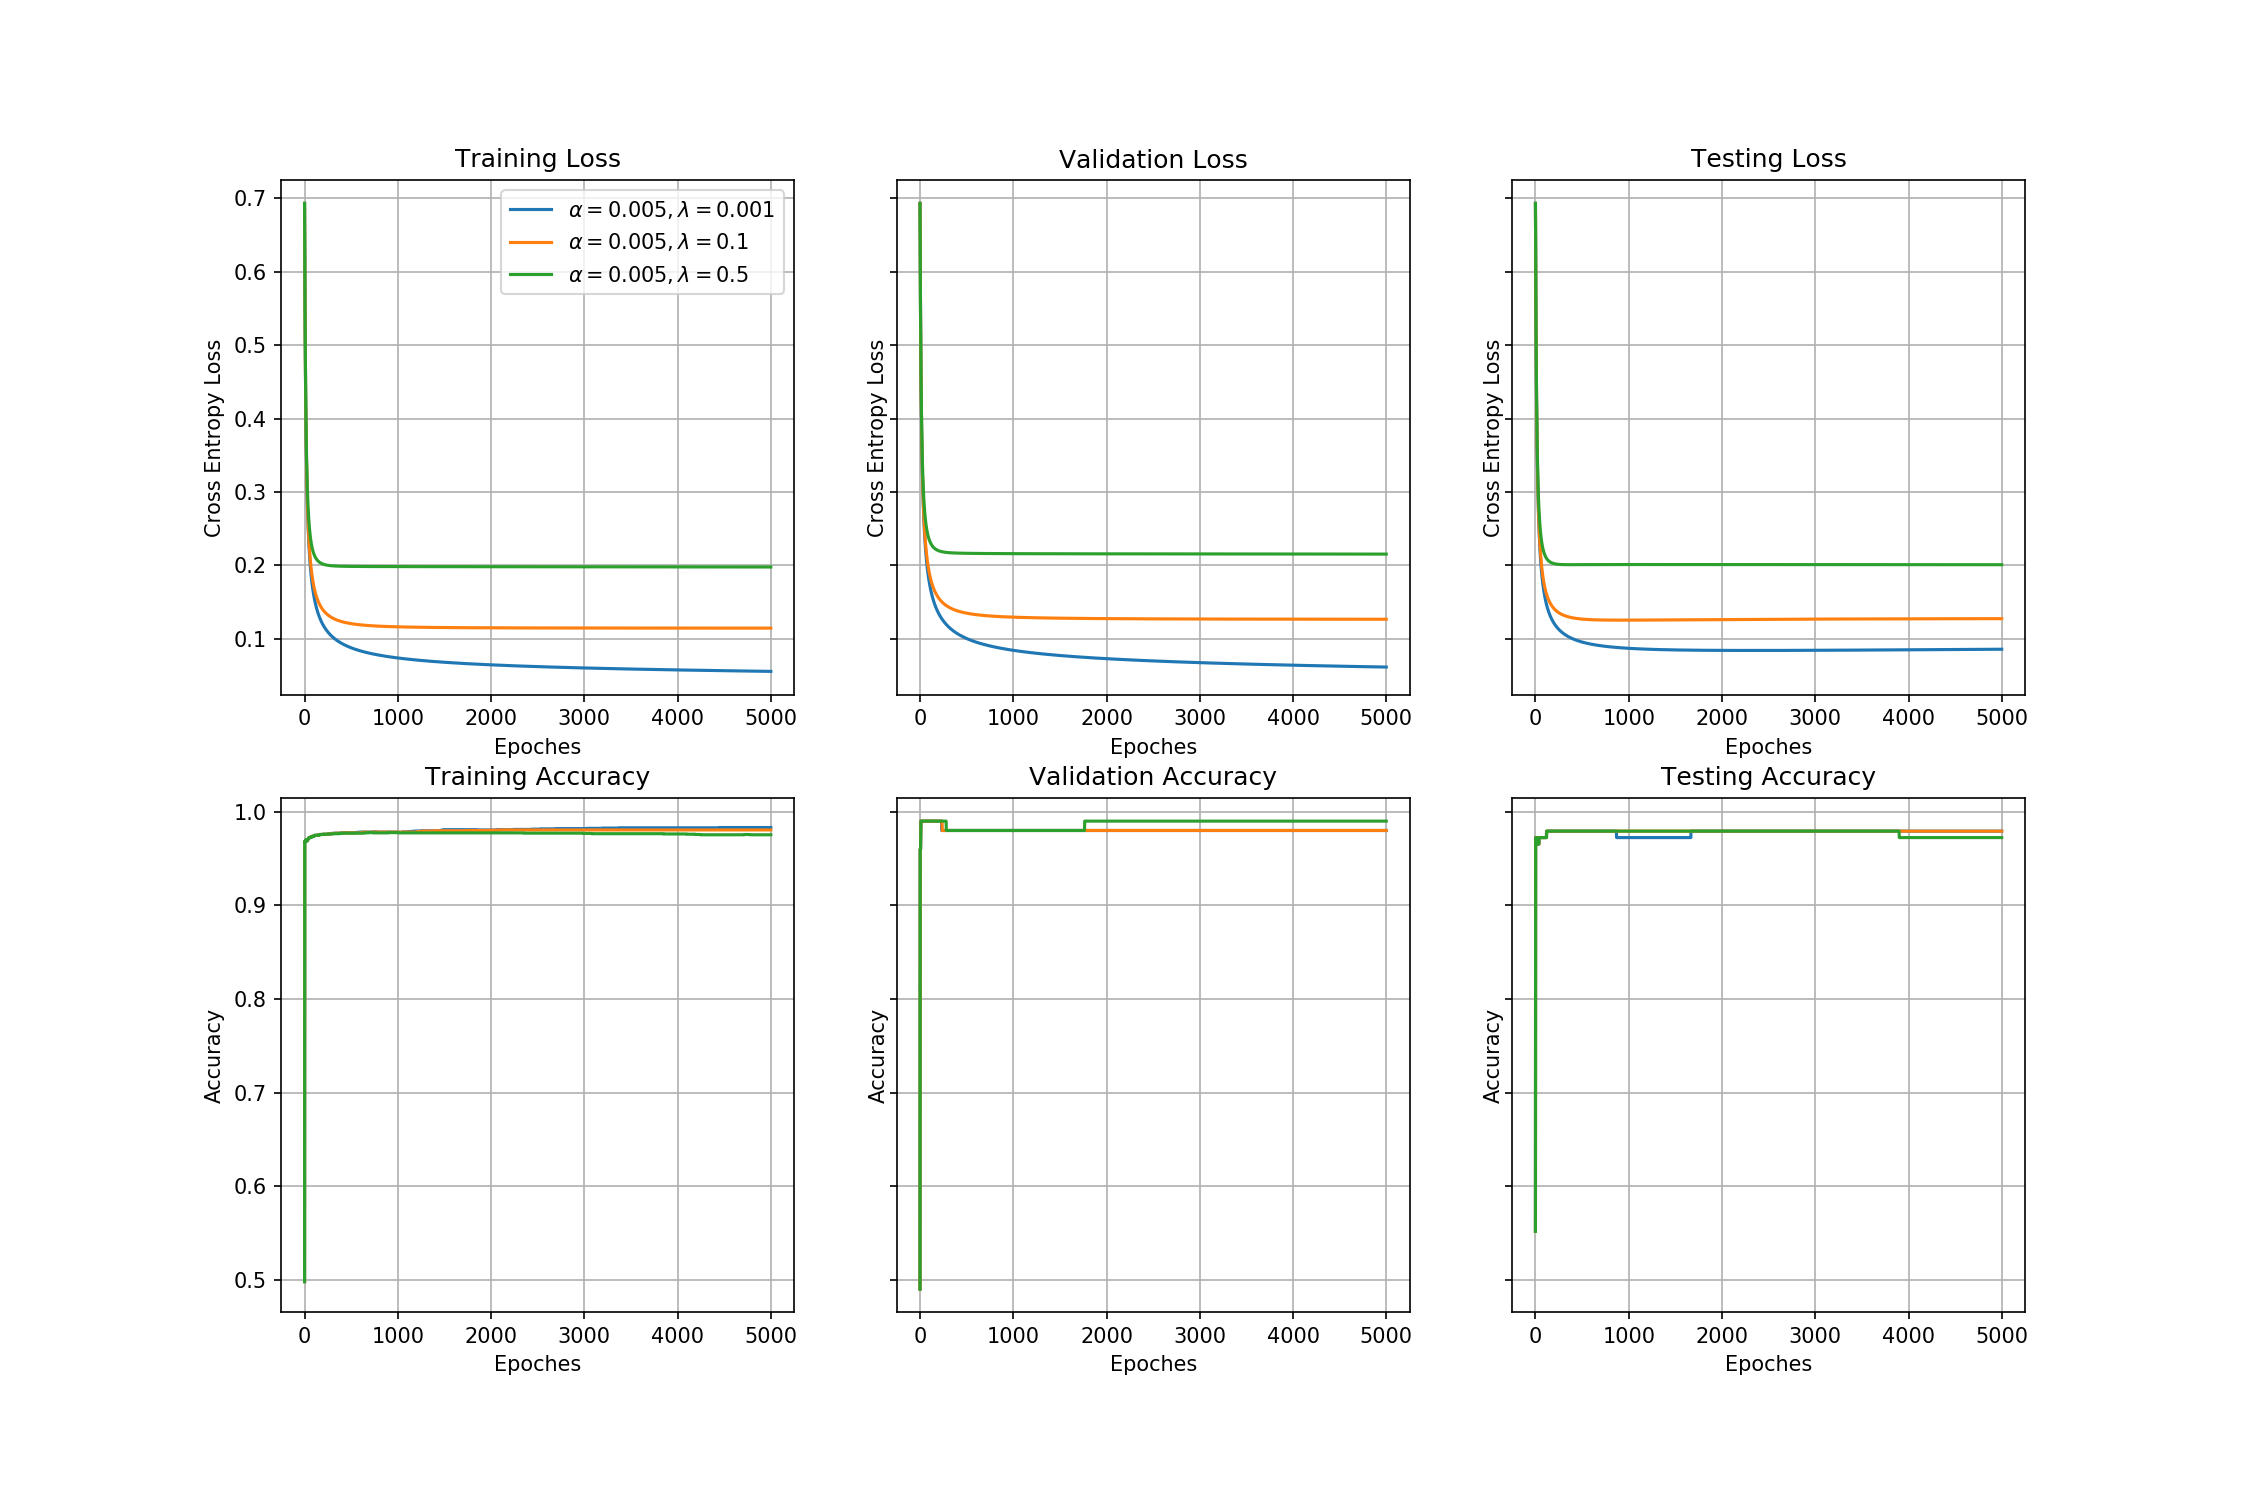
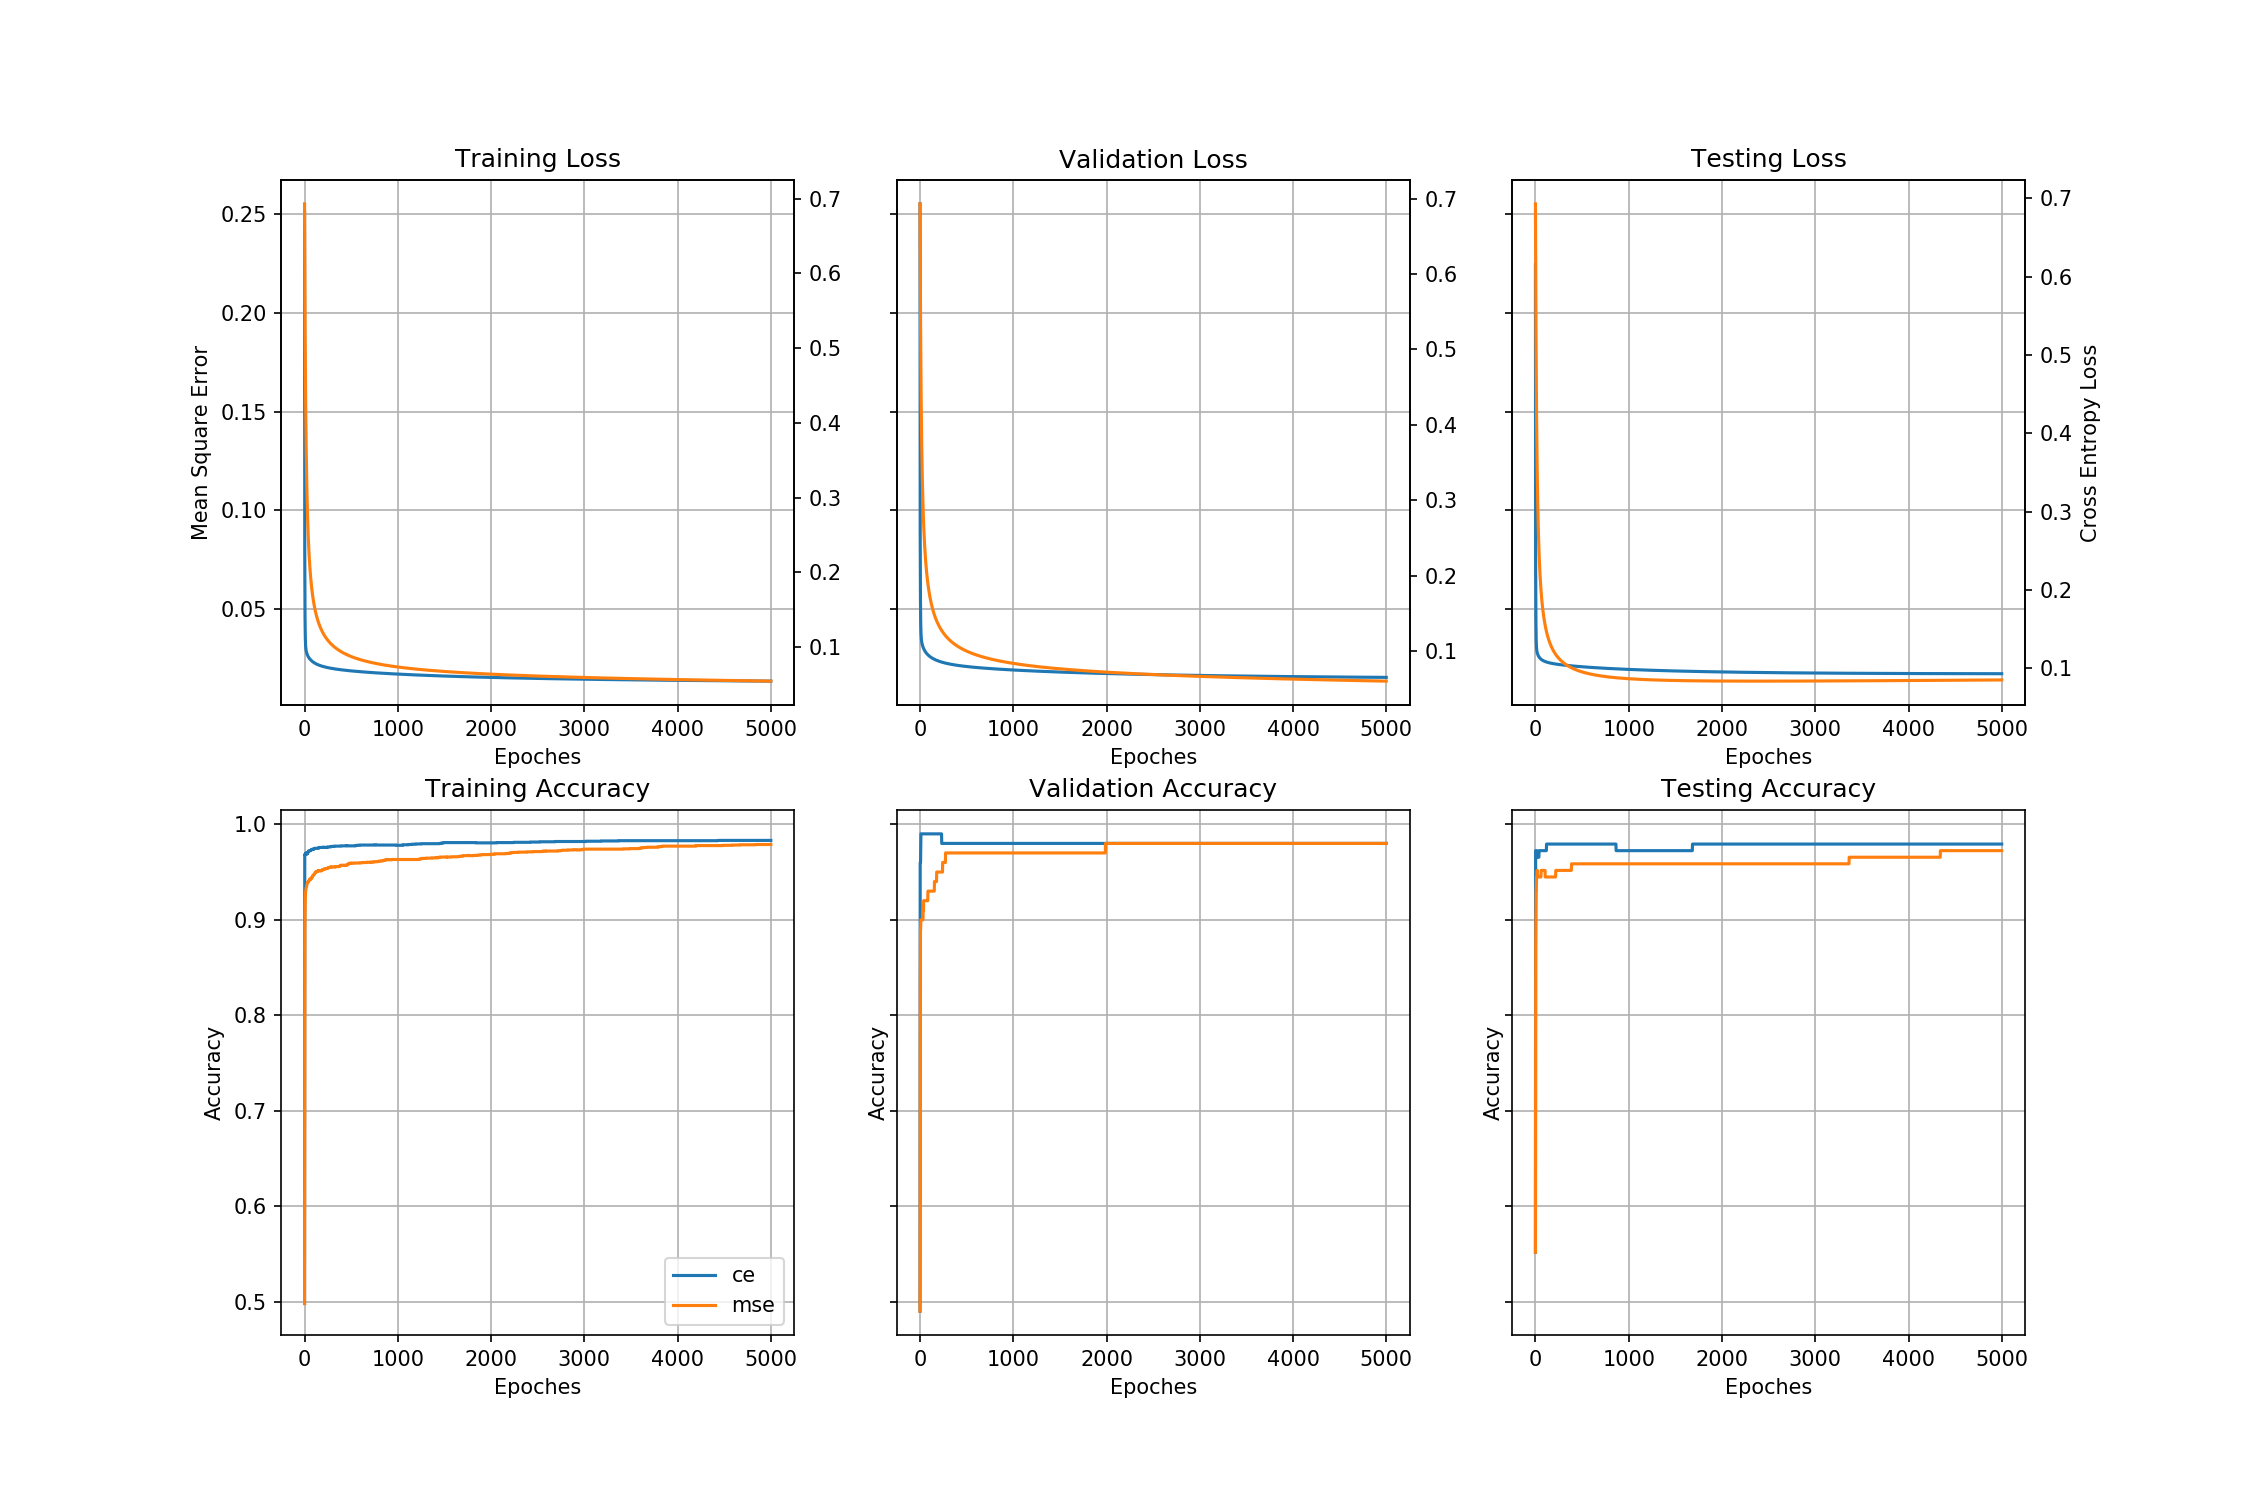
Clean up, Q23

diff --git a/a1/starter.py b/a1/starter.py
@@ -5,6 +5,8 @@ import matplotlib.pyplot as plt
 import time
 from scipy.special import expit
 
+from collections.abc import Iterable
+
 def loadData():
     with np.load('notMNIST.npz') as data :
         Data, Target = data ['images'], data['labels']
@@ -25,68 +27,90 @@ def loadData():
     return trainData, validData, testData, trainTarget, validTarget, testTarget
 
 def MSE(W, b, x, y, reg):
-    # Your implementation here
+    """
+    Calculate 0.5 * Mean Squared Error + regularization
+    :param W: 784x1 weight
+    :param b: 1x1 bias
+    :param x: 784xn input features
+    :param y: 1xn output label
+    :param reg: scalar regularization term (lambda)
+    :return: MSE
+    """
 #    W = np.concatenate([b, W])
 #    x = np.concatenate([-np.ones([1, x.shape[1]]), x], axis=0)
-    
+
     err = W.T.dot(x) + b - y
-    mse = err.dot(err.T) * 1.0 / 2.0 / x.shape[1]
-    regularization = reg * 0.5  * W.T.dot(W)
+    mse = err.dot(err.T) * 1.0 / 2.0 / x.shape[1]  # x.shape[1] == n
+    regularization = reg * 0.5 * W.T.dot(W)
 
     return mse + regularization    
 
 def gradMSE(W, b, x, y, reg):
+    """
+    Calculate gradient of MSE with respect to W (weight) and b (bias)
+    :param W: 784x1 weight
+    :param b: 1x1 bias
+    :param x: 784xn input features
+    :param y: 1xn output label
+    :param reg: scalar regularization term (lambda)
+    :return: tuple(grad MSE with respect to W (784x1), grad MSE with respect to b (1x1))
+    """
     # Your implementation here
 #    W = np.concatenate([b, W])
 #    x = np.concatenate([-np.ones([1, x.shape[1]]), x], axis=0)
     
     err = W.T.dot(x) + b - y
-    mse = 1.0 / x.shape[1] * x.dot(err.T)
-    regularization = reg * W
+    grad_mse = 1.0 / x.shape[1] * x.dot(err.T)
+    grad_reg = reg * W
+
+    # Gradient with respect to W
+    gradW = grad_mse + grad_reg
+
+    # Gradient with respect to b
+    gradB = 1.0 / x.shape[1] * np.sum(err)
     
-    grad = mse + regularization
-    
-    gradB = np.sum(1.0 / x.shape[1] * err)
-    
-    return grad, gradB
+    return gradW, gradB
 
 def crossEntropyLoss(W, b, x, y, reg):
-    # Your implementation here
+    """
+    Calculate cross entropy loss
+    :param W: 784x1 weight
+    :param b: 1x1 bias
+    :param x: 784xn input features
+    :param y: 1xn output label
+    :param reg: scalar regularization term (lambda)
+    :return: cross entropy loss
+    """
+    # Calculate prediction
     z = W.T.dot(x) + b
     yhat = expit(z)
     
     N = y.size
     
-#    cel = 1.0 / N * np.sum(
-#            -y * np.log(yhat)
-#            -(1-y) * np.log(1-yhat)
-#            ) + reg / 2.0 * W.T.dot(W)
-    
     assert np.all((y == 0) | (y == 1))
+
+    # To prevent taking log of zero and speed up computation time, split into two cases
     sum_parts = np.zeros_like(yhat)
+    # When y is zero
     sum_parts[y==0] = -np.log(1-yhat[y==0])
+    # When y is not zero
     sum_parts[y==1] = -np.log(yhat[y==1])
+
     cel = 1.0 / N * np.sum(sum_parts) + reg / 2.0 * W.T.dot(W)
 
-    # cel = 1.0 / N * np.sum(
-    #         -y * x -
-    #         -np.log(1-yhat)
-    #         ) + reg / 2.0 * W.T.dot(W)
-    
     return cel
 
 def gradCE(W, b, x, y, reg):
     """
-
-    :param W: 784x1
-    :param b: 1x1
-    :param x: 784xn
-    :param y: 1xn
-    :param reg: scalar
-    :type reg: float
-    :return:
+    Calculate gradient of cross entropy loss
+    :param W: 784x1 weight
+    :param b: 1x1 bias
+    :param x: 784xn input features
+    :param y: 1xn output label
+    :param reg: scalar regularization term (lambda)
+    :return: tuple(grad CEL with respect to W (784x1), grad CEL with respect to b (1x1))
     """
-    # Your implementation here
+    # Calculate prediction
     z = W.T.dot(x) + b  # 1xn
     yhat = expit(z)  # 1xn
 
@@ -95,6 +119,7 @@ def gradCE(W, b, x, y, reg):
 
     N = y.size
 
+    # Implement simplified analytical expression derived
     dldw = 1.0 / N * x.dot((yhat - y).T) + reg * W  # 784x1
 
     dldb = 1.0 / N * np.sum(
@@ -105,7 +130,24 @@ def gradCE(W, b, x, y, reg):
 
 def grad_descent(W, b, trainingData, trainingLabels, alpha, iterations, reg, EPS, lossType=None,
                  validData=None, validTarget=None, testData=None, testTarget=None):
-    # Your implementation here
+    """
+    Perform a custom implemented gradient descent on the data set by optimizing W and b with the specified lossType
+    :param W: 784x1 weight
+    :param b: 1x1 bias
+    :param trainingData: 784xn input features
+    :param trainingLabels: 1xn output label
+    :param alpha: learning rate multiplied to the gradient
+    :param iterations: number of descent iterations
+    :param reg: scalar regularization term (lambda)
+    :param EPS: absolute tolerance on the loss for stopping descent
+    :param lossType: 'mse' or 'ce'
+    :param validData: 784xn input features, not used for training (optional)
+    :param validTarget: 1xn output label, not used for training (optional)
+    :param testData: 784xn input features, not used for training (optional)
+    :param testTarget: 1xn output label, not used for training (optional)
+    :return: Tuple(W (optimized), b (optimized), mseList of loss values at each iterations) If validation and testing data are also provided, then returns Tuple(W, b, mseList, validMseList, testMseList, accuracyList, validAccuracyList, testAccuracyList)
+    """
+    # Assign correct error function, gradient function, and accuracy calculation functions based on lossType
     if lossType is None or lossType == 'mse':
         errorFun = MSE
         gradErrorFun = gradMSE
@@ -117,16 +159,20 @@ def grad_descent(W, b, trainingData, trainingLabels, alpha, iterations, reg, EPS
     else:
         raise Exception('Invalid lossType = %s' % lossType)
 
+    # Initialize list for storing training progress
     mseList = []
     validMseList = []
     testMseList = []
     accuracyList = []
     validAccuracyList = []
     testAccuracyList = []
+
     for i in range(iterations):
+        # Print progress every 50 iterations
         if i % 50 == 49:
             print('\rIteration %03d/%03d' % (i, iterations), end='\r')
-        
+
+        # Calculate loss
         mse = errorFun(W, b, trainingData, trainingLabels, reg)
         mse = np.asscalar(mse)
         mseList.append(mse)
@@ -140,20 +186,25 @@ def grad_descent(W, b, trainingData, trainingLabels, alpha, iterations, reg, EPS
                     errorFun(W, b, testData, testTarget, reg)
                     ))
 
+        # Calculate accuracy
         accuracy = lambda x, y: accfun(x, y, W, b)
-#        print(np.min(expit(W.T.dot(trainDataVec) + b)), np.max(expit(W.T.dot(trainDataVec) + b)))
         accuracyList.append(accuracy(trainDataVec, trainingLabels))
         validAccuracyList.append(accuracy(validDataVec, validTarget))
         testAccuracyList.append(accuracy(testDataVec, testTarget))
-        
+
+        # If the loss is less than tolerance, then stop
         if np.abs(mse) < EPS:
             break
-        
+
+        # Calculate gradient
         gradW, gradB = gradErrorFun(W, b, trainingData, trainingLabels, reg)
+
+        # Descent by learning rate
         W = W - alpha * gradW
         b = b - alpha * gradB
         
-    print()    
+    print()
+
     if validData is None or validTarget is None or testData is None or testTarget is None:
         return W, b, mseList
     else:
@@ -233,10 +284,12 @@ if __name__ == '__main__':
     plot_linear_regression = True
     
     # Q2
-    logistic_regression_epochs = 0
+    logistic_regression_epochs = 5000
+    run22 = False
+    run23 = True
     
     # Q3
-    tf_epochs = 700
+    tf_epochs = 0
     tf_lossTypes = ('ce',)
     run33 = True
     run34 = True
@@ -247,7 +300,7 @@ if __name__ == '__main__':
     validDataVec = validData.reshape([validData.shape[0], validData.shape[1]*validData.shape[2]]).T
     testDataVec = testData.reshape([testData.shape[0], testData.shape[1]*testData.shape[2]]).T
 
-
+    #%% Training routine
     def train(alphaLambdList, figfilename=None, epochs=linear_regression_epochs, lossType=None):
         mse = []
         validMse = []
@@ -259,17 +312,22 @@ if __name__ == '__main__':
         testAccu = []
         runtime = []
 
-        for alpha, lambd in alphaLambdList:
+        for j, (alpha, lambd) in enumerate(alphaLambdList):
             print('Alpha =', alpha, 'Lambda =', lambd)
 
             W = np.zeros([trainDataVec.shape[0], 1])
 #            W = np.random.RandomState(42).rand(trainDataVec.shape[0], 1)
             b = np.array([[0]])
+
+            if isinstance(lossType, Iterable):
+                lossType_ = lossType[j]
+            else:
+                lossType_ = lossType
             
             tic = time.clock()
             W, b, mseList, validMseList, testMseList, accuracyList, validAccuracyList, testAccuracyList = grad_descent(
                 W, b, trainDataVec, trainTarget.T, alpha,
-                epochs, lambd, 0, lossType,
+                epochs, lambd, 1e-7, lossType_,
                 validDataVec, validTarget.T, testDataVec, testTarget.T)
             runtime.append(time.clock() - tic)
 
@@ -300,28 +358,51 @@ if __name__ == '__main__':
 
         if plot_linear_regression:
             fig, axs = plt.subplots(2, 3, figsize=(15, 10), sharey='row')
+
             for i, (ax, err, title) in enumerate(zip(
                     axs.ravel(),
                     (mse, validMse, testMse, accu, validAccu, testAccu),
                     ('Training Loss', 'Validation Loss', 'Testing Loss',
                      'Training Accuracy', 'Validation Accuracy', 'Testing Accuracy'),
             )):
-                ax.plot(err.T)
-                ax.set_title(title)
-                ax.grid()
-                ax.set_xlabel('Epoches')
                 if i <= 2:
-                    if lossType is None or lossType == 'mse':
-                        ax.set_ylabel('Mean Square Error')
-                    elif lossType == 'ce':
-                        ax.set_ylabel('Cross Entropy Loss')
+                    if isinstance(lossType, Iterable):
+                        for line, lossType_ in zip(err, lossType):
+                            if lossType_ is None or lossType_ == 'mse':
+                                ax.plot(line)
+                                if i == 0:
+                                    ax.set_ylabel('Mean Square Error')
+                            elif lossType_ == 'ce':
+                                ax2 = ax.twinx()
+                                ax2.plot(line, color='#ff7f0e')
+                                if i == 2:
+                                    ax2.set_ylabel('Cross Entropy Loss')
+                            else:
+                                raise Exception('Invalid lossType = %s' % lossType)
                     else:
-                        raise Exception('Invalid lossType = %s' % lossType)
+                        ax.plot(err.T)
+                        if lossType is None or lossType == 'mse':
+                            ax.set_ylabel('Mean Square Error')
+                        elif lossType == 'ce':
+                            ax.set_ylabel('Cross Entropy Loss')
+                        else:
+                            raise Exception('Invalid lossType = %s' % lossType)
+
+                    ax.set_title(title)
+                    ax.grid()
+                    ax.set_xlabel('Epoches')
                 else:
+                    ax.plot(err.T)
+                    ax.set_title(title)
+                    ax.grid()
+                    ax.set_xlabel('Epoches')
                     ax.set_ylabel('Accuracy')
 
-            axs[0, 0].legend([r'$\alpha=%g,\lambda=%g$' % (alpha, lambd)
-                            for alpha, lambd in alphaLambdList])
+            if isinstance(lossType, Iterable):
+                axs[1, 0].legend(lossType)
+            else:
+                axs[0, 0].legend([r'$\alpha=%g,\lambda=%g$' % (alpha, lambd)
+                                for alpha, lambd in alphaLambdList])
             if figfilename:
                 plt.savefig(figfilename, dpi=150)
             
@@ -339,7 +420,7 @@ if __name__ == '__main__':
     if linear_regression_epochs:
         #%% Part 1.3
         if run13:
-            train([(0.005, 0), (0.001, 0), (0.0001, 0)], figfilename='fig13.png')
+            train(((0.0001, 0), (0.001, 0), (0.005, 0)), figfilename='fig13.png')
             
         #%% Part 1.4
         if run14:
@@ -364,10 +445,13 @@ if __name__ == '__main__':
               '%.3f' % accuracy(testDataVec, testTarget))
 
     # %% Q2
-    if logistic_regression_epochs:
-        train([(0.005, 0.001), (0.005, 0.1), (0.005, 0.5)], figfilename='fig23.png',
+    if logistic_regression_epochs and run22:
+        train([(0.005, 0.001), (0.005, 0.1), (0.005, 0.5)], figfilename='fig22.png',
               epochs=logistic_regression_epochs, lossType='ce')
-        
+
+    if logistic_regression_epochs and run23:
+        train([(0.005, 0), (0.005, 0)], figfilename='fig23.png',
+              epochs=logistic_regression_epochs, lossType=('ce', 'mse'))
         
     # %% Q3
     if tf_epochs:
